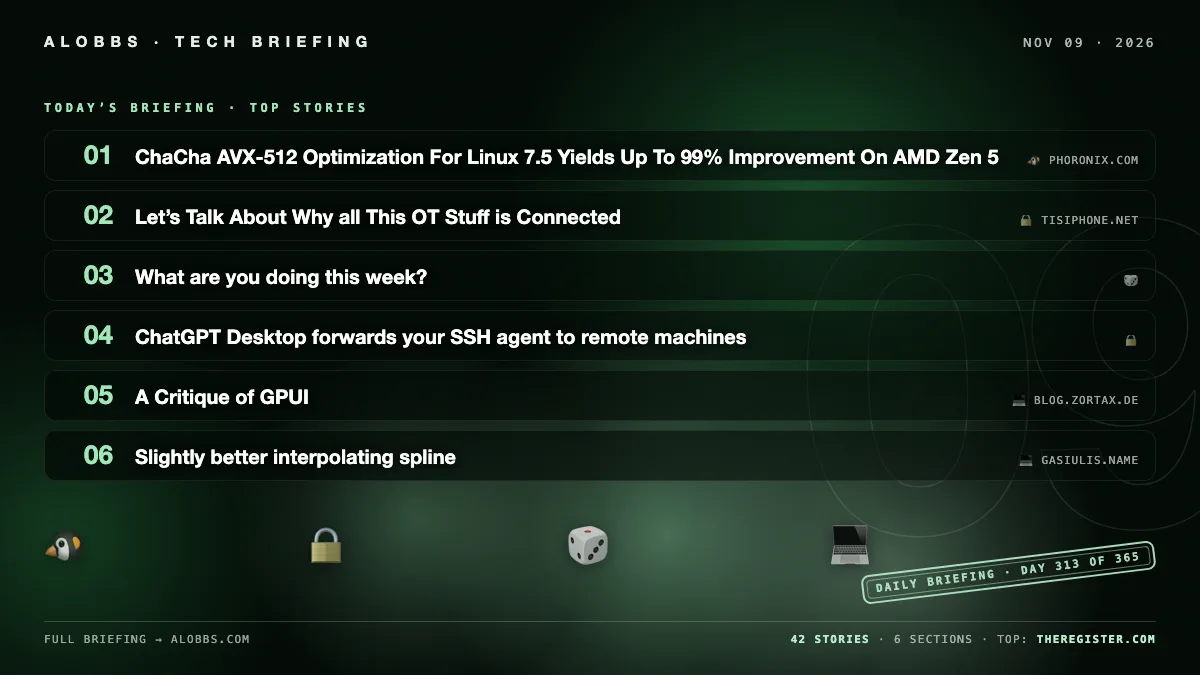
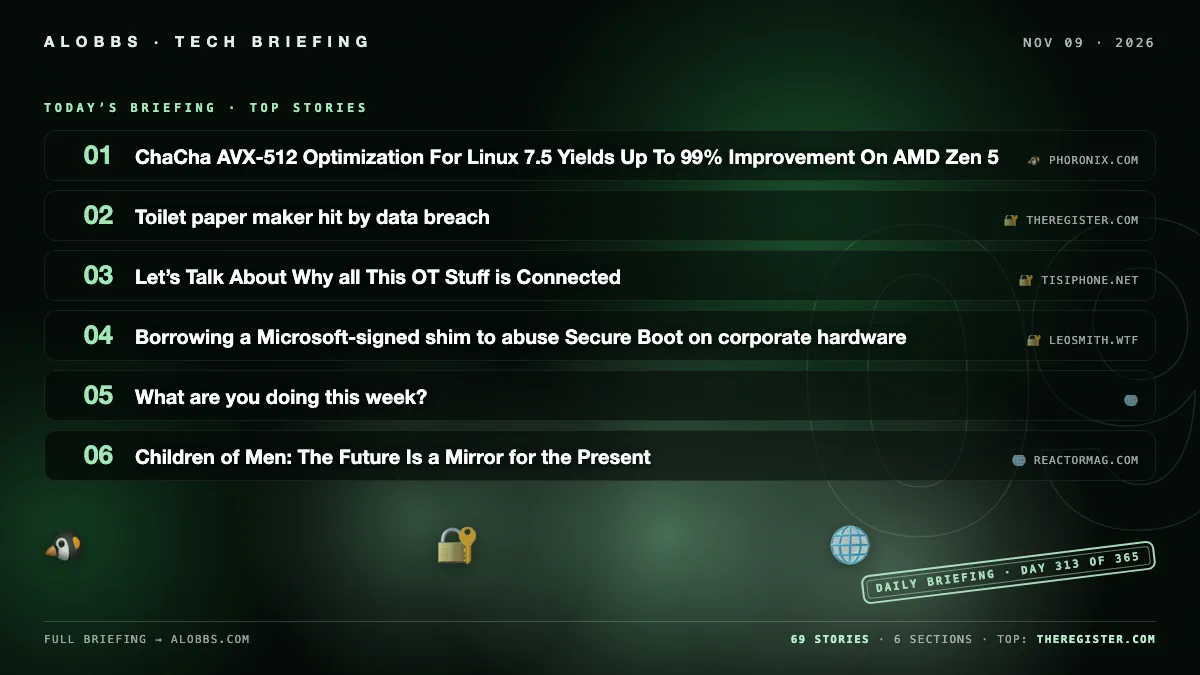
2026-11-09 briefing — 27 new (69 total)

diff --git a/content/post/2026-11-09.md b/content/post/2026-11-09.md
@@ -1,6 +1,6 @@
 ---
 title: "2026-11-09 Briefing"
-date: 2026-11-09 13:45:33.630635
+date: 2026-11-09 15:39:13.382093
 draft: false
 categories: [ "Briefing" ]
 params:
@@ -8,49 +8,23 @@ params:
 cover: "/images/briefings/2026-11-09.webp"
 ---
 
-US authorities indicted three men over an AI deepfake scheme that tricked employees into wiring over $129 million; two were arrested in Spain and one in the UK. A pro-Kremlin group doxxed 18 EU officials and journalists, offering crypto bounties for data on their families. Ex-FBI agent Patrick Yaroch pleaded guilty to stealing nearly $2.5 million in crypto to fund a Portugal vineyard; he faces up to 20 years.
+US authorities indicted three men over an AI deepfake scheme that tricked employees into wiring over $129M; two were arrested in Spain and one in the UK. Researchers exploited default “admin” logins at two automakers to unlock, start and track cars before a two-hour patch. A pro-Kremlin group doxxed 18 EU officials and offered bounties for family data, while a former FBI agent pleaded guilty to stealing $2.5M in crypto.
 
 <!--more-->
 
-## 🤖 AI & Emerging Tech
+## 🔐 Security & Privacy
 
-### Trump: I don't mind AI guardrails, but don't want US second to China, which has none
+### Two carmakers breached with “admin” password: researchers unlock, start and track customers’ cars
 
-In a 60 Minutes interview after Republicans suffered major midterm losses, President Trump said he was not on the ballot and blamed candidate quality, the war, higher gasoline prices, and dislike of Israel for the defeat. On AI safety, he said he does not mind “guardrails” but does not want the U.S. put in “a deep second position,” claiming that “China has no guardrails.”
+Security researchers exploited default “admin” credentials on login servers shared by two unnamed automakers, bypassing firewall protections to take over customer accounts and remotely unlock, start, stop, track, and access data from connected vehicles. Both carmakers patched the issue about two hours after it was reported.
 
-- [Trump: I don't mind AI guardrails, but don't want US second to China, which has none](https://www.cbsnews.com/news/donald-trump-2026-post-midterm-elections-interview-60-minutes-transcript/) — *cbsnews.com*
+- [Two carmakers breached with “admin” password: researchers unlock, start and track customers’ cars](https://cybernews.com/security/two-carmakers-breached-using-default-password/) — *cybernews.com*
 
-### Amazon job listings reveal a new home robot after Astro reached only a few thousand homes
+### AI agents are leaking their owners’ secrets on GitHub: thousands of files exposed
 
-Amazon is assembling a new team to build a “new-to-world” home robot designed to navigate dynamic home environments and operate autonomously alongside family members, according to job listings. The effort follows its $1,450 Astro robot reaching only a few thousand homes. Amazon has also acquired Fauna Robotics and formed a Personal Robotics Group as part of the push.
+Apiiro found 2,539 exposed secrets across 1,994 public GitHub repositories in Claude Code configuration files, largely because developers approved commands with “Yes, and don’t ask again,” causing credentials to be saved in `.claude/settings.local.json`. Claude coauthored commits that exposed real secrets in 539 of 1,105 affected repositories, and tools like Gitleaks often miss secrets embedded in commands. Developers should rotate exposed credentials and keep agent memory and configuration files out of source control.
 
-- [Amazon job listings reveal a new home robot after Astro reached only a few thousand homes](https://www.cnbc.com/2026/11/08/amazon-home-robot-fauna-sprout.html) — *cnbc.com*
-
-### AI echo chambers and sanity in tech leadership: Three case studies
-
-The article examines AI echo chambers and tech leadership through case studies of Altman, Torvalds, and Yen. It argues that one of the three has a sound perspective, while the other two could benefit from more grounding.
-
-- [AI echo chambers and sanity in tech leadership: Three case studies](https://www.theregister.com/ai-and-ml/2026/11/09/ai-echo-chambers-and-sanity-in-tech-leadership-three-case-studies/5308046) — *theregister.com*
-
-### AI Slop FM radio experiment puts machines on trial, one dodgy tune at a time
-
-A music fan from Wales has launched an “AI Slop FM” radio experiment in which listeners pit AI-generated songs against human-made tracks. The AI tracks include novelty themes such as toilet operas and HR protest songs, putting machines on trial one dodgy tune at a time.
-
-- [AI Slop FM radio experiment puts machines on trial, one dodgy tune at a time](https://www.theregister.com/offbeat/2026/11/09/ai-slop-fm-radio-experiment-puts-machines-on-trial-one-dodgy-tune-at-a-time/5308161) — *theregister.com*
-
-### Next-Concept Modeling: Fast, Parallel Coarse-to-Fine Text Generation
-
-Next-Concept Modeling (NCM) is a two-stage, coarse-to-fine text generation framework that encodes text into a hierarchy of discrete codes and uses a transformer to predict all codes within each level in parallel. At matched parameter scales, NCM achieves better generative perplexity than the strongest diffusion language model baseline on LM1B while running 21× faster, and it is competitive on OpenWebText at 10× faster and matches ROUGE-L on XSum at 31× faster. NCM also outperforms autoregressive and diffusion baselines on Sudoku reasoning across all difficulty levels using fewer function evaluations.
-
-- [Next-Concept Modeling: Fast, Parallel Coarse-to-Fine Text Generation](https://arxiv.org/abs/2610.14162) — *arxiv.org*
-
-### Being a meat proxy for AI should be grounds for getting people fired
-
-The article argues that developers who act as mere “meat proxies” for AI—prompting an agent and copy-pasting its output without guidance, validation, or disclosure—should face punishment, potentially including firing in serious cases. The author distinguishes this from legitimate AI-assisted workflows and says such behavior wastes colleagues’ and companies’ time, harms software quality, and lets people avoid responsibility.
-
-- [Being a meat proxy for AI should be grounds for getting people fired](https://swiftrocks.com/being-a-meat-proxy-for-ai-should-be-grounds-for-getting-people-fired) — *swiftrocks.com*
-
-## 🔒 Security & Privacy
+- [AI agents are leaking their owners’ secrets on GitHub: thousands of files exposed](https://cybernews.com/security/ai-agents-leaking-secrets-on-github/) — *cybernews.com*
 
 ### Three suspects arrested for AI-powered impersonation scheme costing victims $129M
 
@@ -70,10 +44,11 @@ Former FBI agent Patrick Steven Yaroch pleaded guilty to stealing nearly $2.5 mi
 
 - [Former FBI agent stole $2.5M in crypto to fund new life abroad](https://cybernews.com/news/former-fbi-agent-stole-millions-moved-portual/) — *cybernews.com*
 
-### Toilet paper company knows where you live – and now hackers do too
+### Toilet paper maker hit by data breach
 
-Who Gives A Crap reported that hackers accessed customer data through an external marketing software provider, affecting customers in Australia, the UK, and the US but reportedly not Canada. Exposed information included names, phone numbers, email and mailing addresses, and spending details; the company says it has found no evidence of misuse and has disconnected the provider and updated access credentials.
+Who Gives A Crap suffered a third-party security incident involving an external marketing software provider, exposing customer data including names, phone numbers, email and mailing addresses, and spending details; affected customers were in Australia, the UK, and the US, but reportedly not Canada. The company said it found no evidence of misuse and has disconnected the provider and updated access credentials, though earlier reports said it was unclear whether UK shoppers’ data was accessed or safely disposed of.
 
+- [Who Gives A Crap? Hackers, apparently, after toilet paper maker's customer data exposed](https://www.theregister.com/security/2026/11/09/who-gives-a-crap-hackers-apparently-after-toilet-paper-makers-customer-data-exposed/5308419) — *theregister.com*
 - [Toilet paper company knows where you live – and now hackers do too](https://cybernews.com/news/who-gives-crap-data-breach/) — *cybernews.com*
 
 ### AI Security
@@ -100,6 +75,12 @@ The article discusses a recent surge in OT cybersecurity incidents and vulnerabi
 
 - [Let’s Talk About Why all This OT Stuff is Connected](https://tisiphone.net/2026/11/08/lets-talk-about-why-all-this-ot-stuff-is-connected/) — *tisiphone.net*
 
+### Outlook.com bounces legit emails as Microsoft's authentication crackdown goes sideways
+
+Microsoft's stricter email authentication crackdown has caused Outlook.com to bounce legitimate emails. Messages without proper DMARC or with misconfigured SPF may be treated as suspicious and rejected.
+
+- [Outlook.com bounces legit emails as Microsoft's authentication crackdown goes sideways](https://www.theregister.com/applications/2026/11/09/outlookcom-bounces-legit-emails-as-microsofts-authentication-crackdown-goes-sideways/5308428) — *theregister.com*
+
 ### Who can still open your files after they've left?
 
 The Register is hosting a London dinner where peers will compare how they find file shares that were left open after people left. The discussion focuses on locating and closing orphaned shares that could still expose files.
@@ -118,13 +99,75 @@ A portal breach at Germany’s top university exposed every registered user’s 
 
 - [Portal breach at Germany's top university exposes every registered user's password](https://www.theregister.com/cyber-crime/2026/11/09/portal-breach-at-germanys-top-university-exposes-every-registered-users-password/5308380) — *theregister.com*
 
+### Borrowing a Microsoft-signed shim to abuse Secure Boot on corporate hardware
+
+A blog post in the p3ng0s series presents research on abusing Secure Boot on corporate hardware by borrowing a Microsoft-signed shim. It teases p3ng0s V2, expected in about a year, and includes a mini tutorial for the technique. The author also explains that Secure Boot is intended to ensure boot integrity rather than simply lock machines to one operating system.
+
+- [Borrowing a Microsoft-signed shim to abuse Secure Boot on corporate hardware](https://leosmith.wtf/blog/not-so-secure-boot.html) — *leosmith.wtf*
+
 ### ChatGPT Desktop forwards your SSH agent to remote machines
 
 ChatGPT Desktop reportedly forwards the local SSH agent to remote machines. This allows an agent running remotely to authenticate with the user’s local SSH credentials, potentially enabling it to push to private GitHub repositories. The claim cites a Codex pull request discussion as proof.
 
 - [ChatGPT Desktop forwards your SSH agent to remote machines]()
 
+## 🤖 AI & Emerging Tech
+
+### The era of completely free Samsung Galaxy AI might be over
+
+Samsung is testing a Galaxy AI Premium subscription that would put new features and higher usage limits behind a paywall, with app code hinting at $5 per month or $48 per year. The paid tier may include AI video generation, task automation, and daily briefings, while standard users face usage caps. Some Samsung users say they are unwilling to pay for phone AI features they rarely use.
+
+- [The era of completely free Samsung Galaxy AI might be over](https://cybernews.com/tech/amsung-galaxy-ai-premium-subscription/) — *cybernews.com*
+
+### Medium launches TK, AI note/journal/private social with daily prompts, first major launch since 2017
+
+Medium has launched TK, an AI-powered minimalist app that combines note-taking and journaling with a private social network, marking its first major launch since 2017. TK offers daily prompts and AI tools to help users organize, search, and get feedback on their writing, aiming to encourage more writing and sharing with friends and fans.
+
+- [Medium launches TK, AI note/journal/private social with daily prompts, first major launch since 2017](https://www.theverge.com/tech/1029676/medium-tk-notes-app) — *theverge.com*
+
+### Googlebook update frees 3–6GB RAM via on-device AI, cuts Chrome crashes, patches ~60 Android flaws
+
+Google is rolling out a November Googlebook update that frees 3GB–6GB of RAM through on-device AI memory and NPU driver optimizations, while reducing Chrome crashes and tab reloads under heavy workloads. The release also fixes convertible input, Zoom crashes, external-display DRM playback, USB audio, Bluetooth, and Linux Terminal issues, and patches about 60 Android vulnerabilities. It is rolling out gradually to supported devices from Acer, ASUS, Lenovo, HP, and Dell.
+
+- [Googlebook update frees 3–6GB RAM via on-device AI, cuts Chrome crashes, patches ~60 Android flaws](https://www.androidcentral.com/chromebooks-laptops/google-just-made-googlebooks-faster-more-stable-and-less-crash-prone) — *androidcentral.com*
+
+### Tencent AI scientist: AI bio abilities may enable harm; Anthropic has strong case for closed models
+
+Tencent chief AI scientist Yao Shunyu warned that AI models will soon reach biology capabilities sufficient to “do harm,” creating risks such as bioweapons alongside benefits like faster drug discovery. He also said Anthropic has a “strong argument” for closed models amid concerns that open-weight AI could be misused.
+
+- [Tencent AI scientist: AI bio abilities may enable harm; Anthropic has strong case for closed models](https://www.scmp.com/tech/big-tech/article/3373697/ai-will-soon-master-biology-unleashing-new-safety-risks-tencent-ai-chief-warns) — *scmp.com*
+
+### Amazon job listings reveal a new home robot after Astro reached only a few thousand homes
+
+Amazon is assembling a new team to build a “new-to-world” home robot designed to navigate dynamic home environments and operate autonomously alongside family members, according to job listings. The effort follows its $1,450 Astro robot reaching only a few thousand homes. Amazon has also acquired Fauna Robotics and formed a Personal Robotics Group as part of the push.
+
+- [Amazon job listings reveal a new home robot after Astro reached only a few thousand homes](https://www.cnbc.com/2026/11/08/amazon-home-robot-fauna-sprout.html) — *cnbc.com*
+
+### AI echo chambers and sanity in tech leadership: Three case studies
+
+The article examines AI echo chambers and tech leadership through case studies of Altman, Torvalds, and Yen. It argues that one of the three has a sound perspective, while the other two could benefit from more grounding.
+
+- [AI echo chambers and sanity in tech leadership: Three case studies](https://www.theregister.com/ai-and-ml/2026/11/09/ai-echo-chambers-and-sanity-in-tech-leadership-three-case-studies/5308046) — *theregister.com*
+
+### AI Slop FM radio experiment puts machines on trial, one dodgy tune at a time
+
+A music fan from Wales has launched an “AI Slop FM” radio experiment in which listeners pit AI-generated songs against human-made tracks. The AI tracks include novelty themes such as toilet operas and HR protest songs, putting machines on trial one dodgy tune at a time.
+
+- [AI Slop FM radio experiment puts machines on trial, one dodgy tune at a time](https://www.theregister.com/offbeat/2026/11/09/ai-slop-fm-radio-experiment-puts-machines-on-trial-one-dodgy-tune-at-a-time/5308161) — *theregister.com*
+
+### Next-Concept Modeling: Fast, Parallel Coarse-to-Fine Text Generation
+
+Next-Concept Modeling (NCM) is a two-stage, coarse-to-fine text generation framework that encodes text into a hierarchy of discrete codes and uses a transformer to predict all codes within each level in parallel. At matched parameter scales, NCM achieves better generative perplexity than the strongest diffusion language model baseline on LM1B while running 21× faster, and it is competitive on OpenWebText at 10× faster and matches ROUGE-L on XSum at 31× faster. NCM also outperforms autoregressive and diffusion baselines on Sudoku reasoning across all difficulty levels using fewer function evaluations.
+
+- [Next-Concept Modeling: Fast, Parallel Coarse-to-Fine Text Generation](https://arxiv.org/abs/2610.14162) — *arxiv.org*
+
 ## 🐧 Linux & Hardware
+
+### Darling Now Embraces AI For Running macOS Binaries On Linux
+
+Darling, a long-running project designed to run macOS binaries on Linux, is now turning to AI and large language models to assist its development. The macOS compatibility layer, in development for more than a decade, is reportedly seeing more brisk progress as a result.
+
+- [Darling Now Embraces AI For Running macOS Binaries On Linux](https://www.phoronix.com/news/Darling-Using-AI-macOS-Linux) — *phoronix.com*
 
 ### ChaCha AVX-512 Optimization For Linux 7.5 Yields Up To 99% Improvement On AMD Zen 5
 
@@ -156,6 +199,12 @@ Hyunjun Ko of Igalia has added bitrate control for AV1 encoding to the Mesa ANV 
 
 - [Intel ANV Lands Bitrate Control For AV1 Encoding](https://www.phoronix.com/news/Intel-ANV-AV1-Bitrate-Control) — *phoronix.com*
 
+### Linux 7.4-rc2 Released With FAT32 Optimization, AMDGPU HDMI 2.2 Improvement
+
+Linux 7.4-rc2 has been released with notable fixes and improvements, including FAT32 optimization, AMDGPU HDMI 2.2 FRL fixes, and core memory management bug fixes. The release also includes AMD PerfOpt adjustments and a continued influx of AI/LLM-generated patches and bug reports. Linux 7.4 is aiming for a stable release around the end of December.
+
+- [Linux 7.4-rc2 Released With FAT32 Optimization, AMDGPU HDMI 2.2 Improvement](https://www.phoronix.com/news/Linux-7.4-rc2-Released) — *phoronix.com*
+
 ### How Much Energy Does Building Distro Packages Use
 
 A developer measured the energy used to build packages for Casuarina Linux over roughly seven months, finding 98.4 kWh consumed and about AU$32.47 in electricity costs for around 5,000 builds. Actual usage was likely more than double because packages were first built on a desktop machine, though rooftop solar reduced costs. The slowest build, Chromium, took nearly four hours and used about 0.77 kWh, costing roughly AU$0.25.
@@ -180,7 +229,13 @@ Linus Torvalds sees signs that the flood of AI-prompted patches may have peaked.
 
 - [Linus Torvalds sees signs AI-prompted patch flood has peaked](https://www.theregister.com/security/2026/11/09/linus-torvalds-sees-signs-ai-prompted-patch-flood-has-peaked/5308345) — *theregister.com*
 
-## 💻 Software & Dev Tools
+### Huawei says it’s made a 100 percent Chinese PC
+
+Huawei says it has built a 100 percent Chinese PC. Japan has declared an infosec emergency, and Apple made its largest-ever school Mac sale in the Philippines. The digest also covers AI infrastructure, cybersecurity, and open-source software news.
+
+- [Huawei says it’s made a 100 percent Chinese PC](https://www.theregister.com/systems/2026/11/09/huawei-says-its-made-a-100-percent-chinese-pc/5308335) — *theregister.com*
+
+## 💻 Software & Development
 
 ### Hide your slop PR descriptions behind
 
@@ -188,11 +243,11 @@ The author argues that AI-generated pull request descriptions are accurate but o
 
 - [Hide your slop PR descriptions behind](https://simonwillison.net/2026/Nov/9/details-summary/) — *simonwillison.net*
 
-### Googlebook update frees 3–6GB RAM via on-device AI, cuts Chrome crashes, patches ~60 Android flaws
+### What is malloc doing, anyway?
 
-Google is rolling out a November Googlebook update that frees 3GB–6GB of RAM through on-device AI memory and NPU driver optimizations, while reducing Chrome crashes and tab reloads under heavy workloads. The release also fixes convertible input, Zoom crashes, external-display DRM playback, USB audio, Bluetooth, and Linux Terminal issues, and patches about 60 Android vulnerabilities. It is rolling out gradually to supported devices from Acer, ASUS, Lenovo, HP, and Dell.
+The article explains how `malloc` offers a simple allocate/free interface while glibc typically satisfies many small allocations by growing the process heap with `brk`/`sbrk` instead of making a syscall for every request. In an example, 1,000 `malloc(16)` calls caused only two `brk` syscalls: one to query the program break and one to extend the heap by 132 KiB. It also reviews the process address space and shows how a simple bump allocator can be built using `sbrk`.
 
-- [Googlebook update frees 3–6GB RAM via on-device AI, cuts Chrome crashes, patches ~60 Android flaws](https://www.androidcentral.com/chromebooks-laptops/google-just-made-googlebooks-faster-more-stable-and-less-crash-prone) — *androidcentral.com*
+- [What is malloc doing, anyway?](https://benmandrew.com/articles/what-is-malloc-doing-anyway) — *benmandrew.com*
 
 ### A C++ Quicksort Faster Than std::sort
 
@@ -224,11 +279,17 @@ A developer’s error bricked 600 PCs and triggered a $1 million CD-ROM write-of
 
 - [Dev error bricked 600 PCs, caused $1M CD-ROM write-off](https://www.theregister.com/software/2026/11/09/dev-error-bricked-600-pcs-caused-1m-cd-rom-write-off/5308039) — *theregister.com*
 
-### WindyMaps – Free offline maps, 1h/1km weather and route trip planner
+### Zebkit – Chromium as an embeddable library
 
-The article introduces WindyMaps as a free offline maps tool offering 1-hour/1-kilometer weather data and a route trip planner. However, the page content consists mainly of map-loading text and interface labels, with no further substantive details.
+Zebkit packages Chromium’s engine—Blink, V8, PDFium, FFmpeg, and more—as a single library that applications can link into their own native apps, with bindings for C, C++, Rust, Python, and JavaScript across Linux, macOS, and Windows. It runs inside the application’s own event loop and windows without Chrome’s browser, Electron’s runtime, or Node. Zebkit claims to be lighter than Electron 45.2.1, with 34% smaller size, a 2.3s cold start versus 6.6s, and 29% less page memory.
 
-- [WindyMaps – Free offline maps, 1h/1km weather and route trip planner](https://windymapy.com) — *windymapy.com*
+- [Zebkit – Chromium as an embeddable library](https://github.com/ikey4u/zebkit) — *github.com*
+
+### 500M CSV rows in a browser tab at ~1 GB RAM. no row limit, zero deps, no server
+
+@p10node/office-engine is a zero-dependency, browser-based library for viewing and editing DOCX, XLSX, PPTX, CSV, and other document formats without a server. It can open a 55 GB CSV with 500 million rows and no row limit in about 4.5 minutes while keeping the tab under 1 GB RAM, using progressive loading and a Web Worker.
+
+- [500M CSV rows in a browser tab at ~1 GB RAM. no row limit, zero deps, no server](https://github.com/p10node/office-engine) — *github.com*
 
 ### Github.com 504 Gateway Timeout due to surge in anonymous users
 
@@ -242,7 +303,37 @@ Flide is a high-performance, exact inference engine for Jev-like decision models
 
 - [Flide: Make Jev-like decision models up to 9.5x faster](https://github.com/OmniJev/Flide) — *github.com*
 
-## 🏢 Business & Data Centers
+### The Qlobe: Rotating Quine (2010)
+
+The Qlobe is a Ruby quine by Yusuke Endoh (2010) that rotates itself 45 degrees each time it is executed and returns to its original orientation after eight runs. It can also be configured via a command-line integer to rotate by any desired degree.
+
+- [The Qlobe: Rotating Quine (2010)](http://mamememo.blogspot.com/2010/09/qlobe.html) — *mamememo.blogspot.com*
+
+## 🏢 Tech Business & Policy
+
+### What “catastrophic disclosure” would look like – and why Trump might try it
+
+UFO researcher Jon Stewart predicts Trump could attempt a dramatic “catastrophic disclosure” after Republican midterm losses to regain attention. Stewart says recent government UAP releases have disappointed watchers because most footage is blurry and limited, and he claims dramatic evidence could include an extraterrestrial body or clear craft footage without providing proof. The Pentagon says it has no recovered alien technology or secret reverse-engineering program.
+
+- [What “catastrophic disclosure” would look like – and why Trump might try it](https://cybernews.com/news/trump-ufo-uap-catastrophic-disclosure/) — *cybernews.com*
+
+### Jensen Huang hired crisis PR firm Heller by Oct 2025; NYT Megaspeed report caused tensions
+
+Nvidia CEO Jensen Huang began working with crisis communications firm Heller as early as October 2025, around when a New York Times report on his Megaspeed ties raised tensions inside Nvidia. Heller was later included on press inquiries about Huang, and Huang has since admitted to an extramarital affair with a woman US intelligence suspects is a Chinese spy.
+
+- [Jensen Huang hired crisis PR firm Heller by Oct 2025; NYT Megaspeed report caused tensions](https://www.wired.com/story/nvidia-ceo-jensen-huang-hired-a-pr-firm-known-for-handling-sex-scandals-last-year/) — *wired.com*
+
+### AI book editing startup Spines raises $29M equity and $35M debt
+
+Spines, a Herzliya-based digital publishing platform for amateur authors, raised $29 million in equity led by Zeev Ventures and $35 million in debt from Twelve. The company uses AI agents to edit, proofread, design covers, handle layout, and distribute books across digital, audio, and print formats. Spines now reports $50 million in ARR, with 8,000 authors who have collectively published over 12,000 books.
+
+- [AI book editing startup Spines raises $29M equity and $35M debt](https://en.globes.co.il/en/article-israeli-ai-publishing-co-spines-raises-64m-1001562574) — *en.globes.co.il*
+
+### Nvidia senior director Madison Huang, Jensen's daughter, cancels Seoul appearance over family matter
+
+Madison Huang, a senior director at Nvidia and daughter of Jensen Huang, canceled a high-profile Seoul appearance citing a “family matter,” throwing into disarray an event meant to showcase Nvidia’s deepening ties with South Korean AI players. The cancellation followed reports linking Jensen Huang to a woman U.S. officials suspected of being a Chinese spy; Huang admitted an affair and Nvidia’s board opened an independent probe.
+
+- [Nvidia senior director Madison Huang, Jensen's daughter, cancels Seoul appearance over family matter](https://www.bloomberg.com/news/articles/2026-11-09/nvidia-controversy-throws-high-profile-korea-event-into-disarray) — *bloomberg.com*
 
 ### ByteDance seeks larger second phase at Ceara, Brazil $10B, 300MW data center
 
@@ -250,13 +341,55 @@ ByteDance is seeking a developer for a second phase of its data center project i
 
 - [ByteDance seeks larger second phase at Ceara, Brazil $10B, 300MW data center](https://www.bloomberg.com/news/articles/2026-11-06/tiktok-owner-bytedance-weighs-data-center-expansion-in-brazil) — *bloomberg.com*
 
+### Trump: I don't mind AI guardrails, but don't want US second to China, which has none
+
+In a 60 Minutes interview after Republicans suffered major midterm losses, President Trump said he was not on the ballot and blamed candidate quality, the war, higher gasoline prices, and dislike of Israel for the defeat. On AI safety, he said he does not mind “guardrails” but does not want the U.S. put in “a deep second position,” claiming that “China has no guardrails.”
+
+- [Trump: I don't mind AI guardrails, but don't want US second to China, which has none](https://www.cbsnews.com/news/donald-trump-2026-post-midterm-elections-interview-60-minutes-transcript/) — *cbsnews.com*
+
+### Trump: Jensen Huang should stay as Nvidia CEO after affair admission
+
+President Donald Trump said Jensen Huang should remain Nvidia’s CEO, calling him a “fine person” after Huang had an affair with a woman U.S. intelligence officials reportedly suspect was a Chinese spy. Trump said he had not spoken with Huang about the matter and had not heard he had done anything wrong.
+
+- [Trump: Jensen Huang should stay as Nvidia CEO after affair admission](https://www.bloomberg.com/news/articles/2026-11-08/trump-defends-nvidia-s-huang-after-he-admits-affair-with-spy) — *bloomberg.com*
+
 ### Sequoia's Lin, Grady erased Botha legacy, halved GPs, unwound fund; he joined SpaceX board secretly
 
 Sequoia Capital’s new leaders Alfred Lin and Pat Grady have moved to erase Roelof Botha’s legacy by halving general partners and unwinding his fund, while closing the London office and permanent capital fund as part of streamlining the firm. Sources say Botha joined SpaceX’s board behind their backs.
 
 - [Sequoia's Lin, Grady erased Botha legacy, halved GPs, unwound fund; he joined SpaceX board secretly](https://www.ft.com/content/abf66424-1738-4c1b-9d6b-a868be30b474) — *ft.com*
 
-## 🎲 Offbeat & Community
+### The AI bubble can wait, but your exit plan can't
+
+AI infrastructure spending is outpacing measurable returns, raising concerns about a potential bubble. The financial health of suppliers will be key to judging when trouble may arrive. Investors should prepare an exit plan rather than wait for the bubble to burst.
+
+- [The AI bubble can wait, but your exit plan can't](https://www.theregister.com/ai-and-ml/2026/11/09/the-ai-bubble-can-wait-but-your-exit-plan-cant/5308415) — *theregister.com*
+
+### Datacenters, Elon Musk, and AI are all on the chopping block once Congress changes hands in 2027
+
+The Register’s Kettle podcast discussed Democratic election gains as a rebuke to Trump and the MAGA movement, with backlash against AI, datacenters, and the tech industry’s ties to Trump also playing a role. Panelists examined what the political shift means for Silicon Valley and the tech sector.
+
+- [Datacenters, Elon Musk, and AI are all on the chopping block once Congress changes hands in 2027](https://www.theregister.com/legal/2026/11/09/datacenters-elon-musk-and-ai-are-all-on-the-chopping-block-once-congress-changes-hands-in-2027/5308250) — *theregister.com*
+
+### Nvidia's China Problem [pdf]
+
+The article examines the challenges Nvidia faces in the Chinese market. It analyzes the business and industry implications of those difficulties for the chipmaker.
+
+- [Nvidia's China Problem [pdf]](https://culperresearch.com/wp-content/uploads/2026/05/Culper_NVDA_5-13-2026.pdf) — *culperresearch.com*
+
+### Apple Store Subscription Sign-Up Controversy Exposed
+
+Consumer advocate Louis Rossmann has exposed allegations that some U.S. Apple Store employees signed customers up for auto-renewing Apple One and other subscription trials without informed consent, sometimes rushing the process, presenting trials as “gifts,” or tapping “Agree” themselves. Employees were reportedly tracked on a “services attach rate” with a 40% target. Apple removed that metric early last week, days after Rossmann’s videos, though it said the change was due to holiday relevance.
+
+- [Apple Store Subscription Sign-Up Controversy Exposed](https://www.macrumors.com/2026/11/08/apple-store-subscription-controversy/) — *macrumors.com*
+
+### Apple capped engineers at a $200 daily AI budget
+
+Apple has reportedly lowered the daily AI spending cap for some engineers from $300 to $200, signaling internal concern over generative AI costs. The move highlights how even large companies are focusing on cost controls and efficiency as AI usage scales.
+
+- [Apple capped engineers at a $200 daily AI budget](https://www.stork.ai/newsletter/2026-11-08-apple-capped-engineers-at-a-200-daily-ai-budget#story-1) — *stork.ai*
+
+## 🌐 Culture & Digital Life
 
 ### How to watch Scotland v New Zealand in the Nations Championship
 
@@ -264,14 +397,44 @@ Scotland face New Zealand at Edinburgh’s Scottish Gas Murrayfield on November 
 
 - [How to watch Scotland v New Zealand in the Nations Championship](https://cybernews.com/stream-online/how-to-watch-scotland-v-new-zealand-nations-championship/) — *cybernews.com*
 
+### How to Watch RB Leipzig vs Manchester City for Free (November 4, 2026)
+
+The article explains how to watch RB Leipzig vs Manchester City in the UEFA Champions League on November 4, 2026, for free via official broadcasters RTÉ2, HRT, TV8, and JurnalTV. It recommends using NordVPN to connect to the broadcaster’s home country and access the geo-restricted stream, noting NordVPN’s 30-day money-back guarantee. The match kicks off at 9:00 PM CET at the Red Bull Arena in Leipzig.
+
+- [How to Watch RB Leipzig vs Manchester City for Free (November 4, 2026)](https://cybernews.com/stream-online/watch-rb-leipzig-vs-manchester-city-free/) — *cybernews.com*
+
+### The Web Is More Than Enough, by Paul Ford
+
+The post describes creating a Nudibranch-themed Fabergé egg in Three.js and asking Claude Opus 5.5 to port it to vanilla JavaScript/WebGL without Three.js. The port produced a 98KB version versus the original 77KB, and while the results were not identical, the author notes Claude was capable of 3D modeling in vanilla JS. The author finds the Three.js code slightly easier to understand but rarely reviews such project code.
+
+- [The Web Is More Than Enough, by Paul Ford](https://simonwillison.net/2026/Nov/9/hn-50421091/) — *simonwillison.net*
+
 ### What are you doing this week?
 
 The article invites readers to share what they are doing this week. It notes that doing nothing at all is also acceptable.
 
 - [What are you doing this week?]()
 
-### The Qlobe: Rotating Quine (2010)
+### Bad news for kinky Brits
 
-The Qlobe is a Ruby quine by Yusuke Endoh (2010) that rotates itself 45 degrees each time it is executed and returns to its original orientation after eight runs. It can also be configured via a command-line integer to rotate by any desired degree.
+The UK has imposed a strict and vaguely worded pornography law that could bring up to five years in prison for recording or possessing certain consensual kinky sex acts, even in private. Sex workers and adult creators are already seeing hundreds of videos removed from platforms including Clips4Sale, which creators say is purging content as a precautionary measure with little notice or communication.
 
-- [The Qlobe: Rotating Quine (2010)](http://mamememo.blogspot.com/2010/09/qlobe.html) — *mamememo.blogspot.com*
+- [Bad news for kinky Brits](https://www.404media.co/bad-news-for-kinky-brits/) — *404media.co*
+
+### Children of Men: The Future Is a Mirror for the Present
+
+The article argues that all science fiction is political and that stories about the future really reflect the present, using *Children of Men* as a key example. It describes Alfonso Cuarón’s 2006 film, loosely based on P.D. James’s 1992 novel, as a near-future story about human infertility that explores tyranny, the exploitation of immigrants, and religion amid social despair. The piece says the film’s pointed political themes have only grown more important and powerful since its release.
+
+- [Children of Men: The Future Is a Mirror for the Present](https://reactormag.com/children-of-men-the-future-is-a-mirror-for-the-present/) — *reactormag.com*
+
+### Being a meat proxy for AI should be grounds for getting people fired
+
+The article argues that developers who act as mere “meat proxies” for AI—prompting an agent and copy-pasting its output without guidance, validation, or disclosure—should face punishment, potentially including firing in serious cases. The author distinguishes this from legitimate AI-assisted workflows and says such behavior wastes colleagues’ and companies’ time, harms software quality, and lets people avoid responsibility.
+
+- [Being a meat proxy for AI should be grounds for getting people fired](https://swiftrocks.com/being-a-meat-proxy-for-ai-should-be-grounds-for-getting-people-fired) — *swiftrocks.com*
+
+### WindyMaps – Free offline maps, 1h/1km weather and route trip planner
+
+The article introduces WindyMaps as a free offline maps tool offering 1-hour/1-kilometer weather data and a route trip planner. However, the page content consists mainly of map-loading text and interface labels, with no further substantive details.
+
+- [WindyMaps – Free offline maps, 1h/1km weather and route trip planner](https://windymapy.com) — *windymapy.com*
